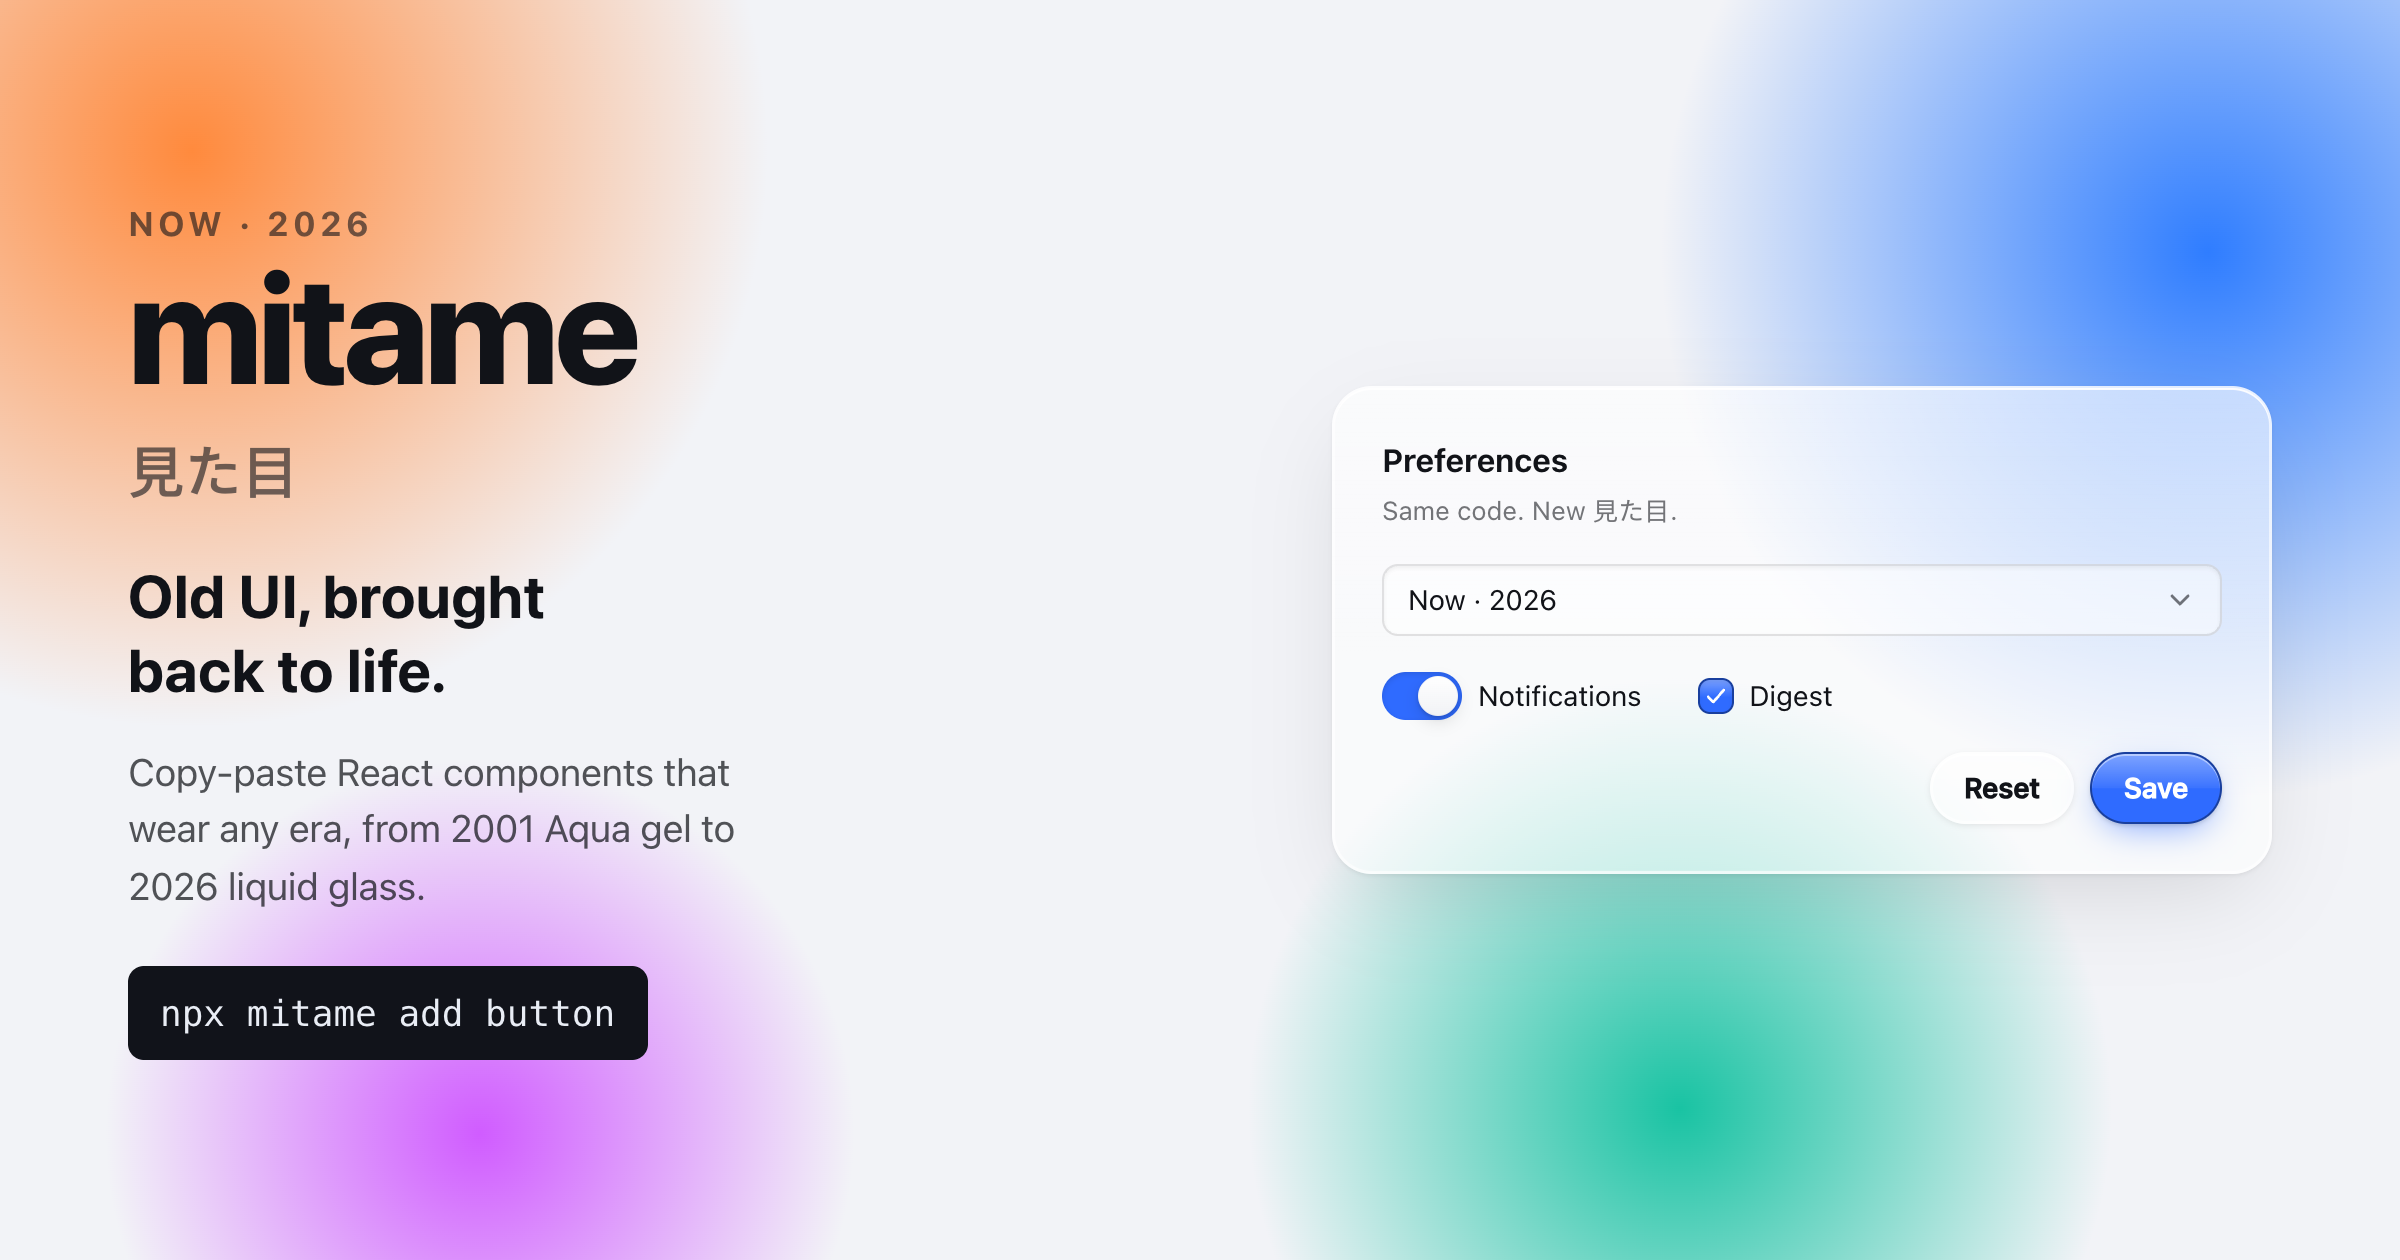
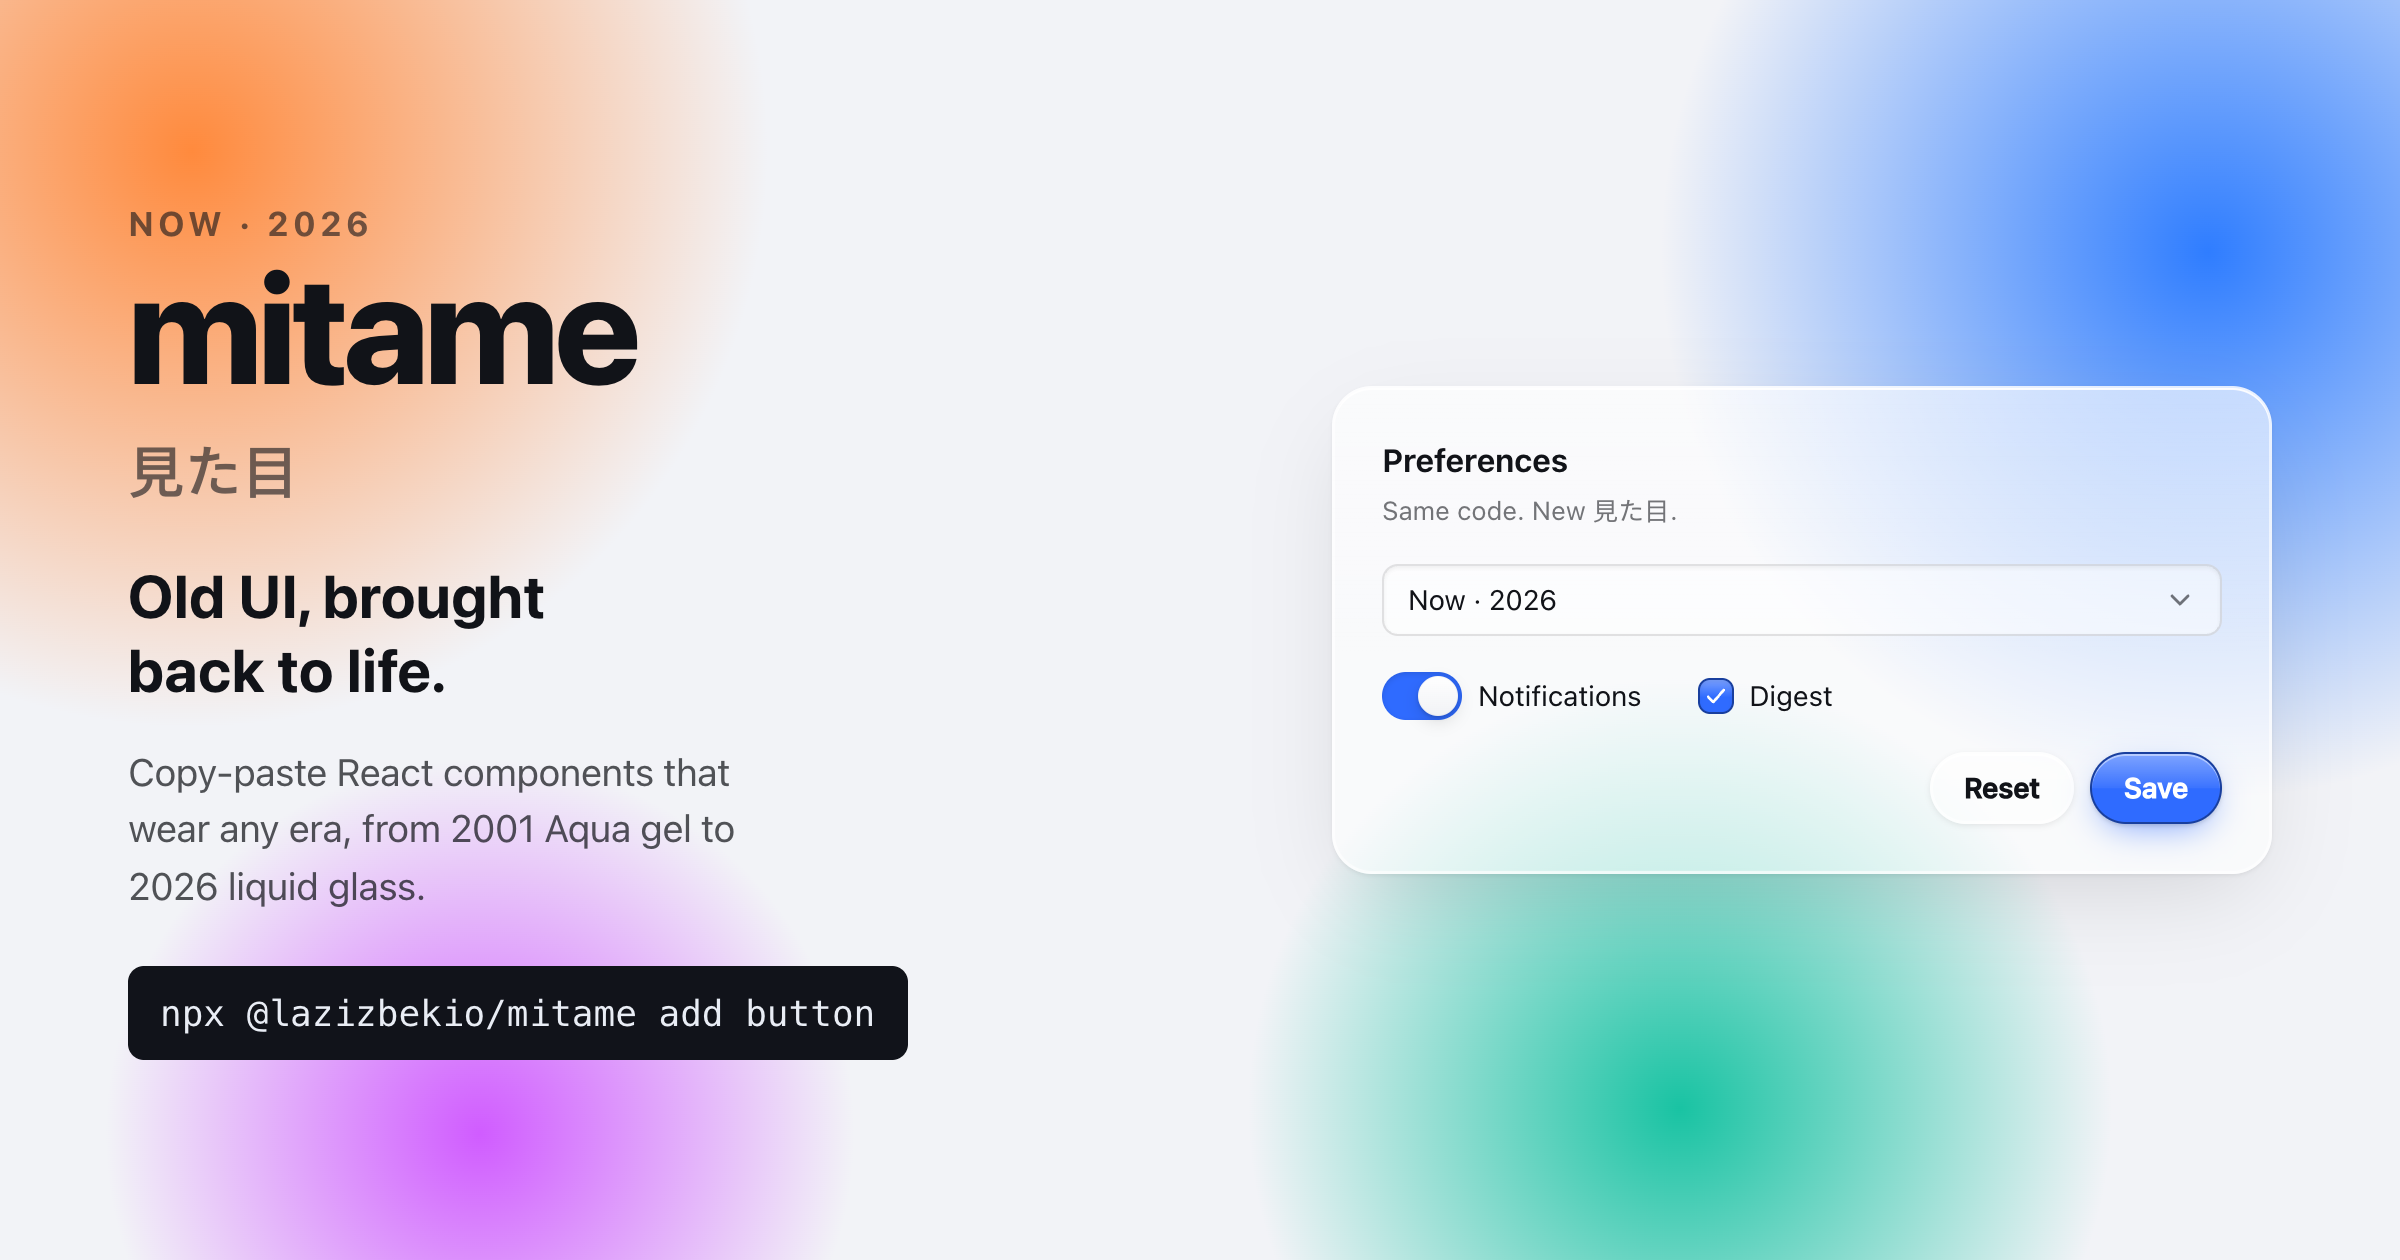
Publish as @lazizbekio/mitame
npm rejected the bare name: its typosquatting filter flagged mitame as
too similar to mitata, mime and minami. Scoped names skip that check.

- package renamed to @lazizbekio/mitame; the binary stays mitame, so
  npx mitame add button still works once it is a dependency
- every install command in the README, site, CLI help, social cards and
  launch copy updated

Changed region(s): [[0.25, 0.7429, 0.4062, 0.8667], [0.0938, 0.7738, 0.2188, 0.8357]]

diff --git a/cli/index.ts b/cli/index.ts
@@ -12,9 +12,11 @@ const root = here.endsWith(join("dist", "cli")) ? join(here, "../../registry") :
 const HELP = `mitame: copy-paste components, any look
 
 Usage
-  npx mitame init [--dir src/components/mitame] [--theme <name>]
-  npx mitame add <item...> [--overwrite]      e.g. add button select dialog
-  npx mitame list                             components, hooks, icons, themes
+  npx @lazizbekio/mitame init [--dir src/components/mitame] [--theme <name>]
+  npx @lazizbekio/mitame add <item...> [--overwrite]   e.g. add button select dialog
+  npx @lazizbekio/mitame list                          components, hooks, icons, themes
+
+Installed as a dependency? The short form works too: npx mitame add button
 
 Themes
   eras    platinum (1997), aqua (2001, default), liquid (2026)
@@ -53,7 +55,7 @@ Next:
        @import "./${r.config.dir.replace(/^src\//, "")}/themes/${THEMES[r.config.theme]}.css";
      (Tailwind users: also @import ".../themes/tailwind.css" after tailwindcss.)
   2. Set the theme: <html data-theme="${r.config.theme}">
-  3. Add components: npx mitame add button card`);
+  3. Add components: npx @lazizbekio/mitame add button card`);
     return;
   }
   if (command === "add") {

diff --git a/site/src/pages/llms.txt.ts b/site/src/pages/llms.txt.ts
@@ -10,14 +10,14 @@ export const GET: APIRoute = ({ site }) => {
 
 ## Install
 
-- \`npx mitame init\` (writes mitame.json, copies helpers and theme CSS; \`--theme liquid\` for liquid glass)
-- \`npx mitame add <name...>\` copies source into src/components/mitame (ui/, hooks/, lib/, icons/, themes/) and pulls dependencies
+- \`npx @lazizbekio/mitame init\` (writes mitame.json, copies helpers and theme CSS; \`--theme liquid\` for liquid glass)
+- \`npx @lazizbekio/mitame add <name...>\` copies source into src/components/mitame (ui/, hooks/, lib/, icons/, themes/) and pulls dependencies
 - Import once: themes/base.css and themes/y2k/aqua.css (or themes/now/liquid.css); set <html data-theme="aqua">
 - Imports look like: import { Button } from "@/components/mitame/ui/button"
 
 ## Components
 
-${components.map((c) => `- [${c.name}](${base}/docs/components/${c.slug}): ${c.description} Add with \`npx mitame add ${c.add}\`.`).join("\n")}
+${components.map((c) => `- [${c.name}](${base}/docs/components/${c.slug}): ${c.description} Add with \`npx @lazizbekio/mitame add ${c.add}\`.`).join("\n")}
 
 ## Theming
 

diff --git a/cli/commands.ts b/cli/commands.ts
@@ -13,7 +13,7 @@ export const DEFAULT_CONFIG: Config = { dir: "src/components/mitame", theme: "aq
 
 export function readConfig(cwd: string): Config {
   const file = join(cwd, CONFIG_FILE);
-  if (!existsSync(file)) throw new Error("No mitame.json here. Run `npx mitame init` first.");
+  if (!existsSync(file)) throw new Error("No mitame.json here. Run `npx @lazizbekio/mitame init` first.");
   return { ...DEFAULT_CONFIG, ...JSON.parse(readFileSync(file, "utf8")) };
 }
 
@@ -53,7 +53,7 @@ export function init(root: string, cwd: string, opts: Partial<Config> & { overwr
 
 export function add(root: string, cwd: string, names: string[], opts: { overwrite?: boolean } = {}): CopyResult {
   const config = readConfig(cwd);
-  if (!names.length) throw new Error("Tell me what to add, for example `npx mitame add button dialog`.");
+  if (!names.length) throw new Error("Tell me what to add, for example `npx @lazizbekio/mitame add button dialog`.");
   const entries = names.map((n) => resolveItem(root, n));
   return copy(root, cwd, config.dir, collectFiles(root, entries), opts.overwrite ?? false, entries);
 }

diff --git a/site/src/components/shots/ShotCard.tsx b/site/src/components/shots/ShotCard.tsx
@@ -26,7 +26,7 @@ export default function ShotCard({ theme }: { theme: string }) {
           <strong>Old UI, brought back to life.</strong>
         </p>
         <p className="sub">Copy-paste React components that wear any era, from 2001 Aqua gel to 2026 liquid glass.</p>
-        <span className="cmd">npx mitame add button</span>
+        <span className="cmd">npx @lazizbekio/mitame add button</span>
       </div>
       <div className="stage" style={{ flex: "0 0 470px" }}>
         <Card style={{ width: "470px" }}>

diff --git a/site/src/data/components.ts b/site/src/data/components.ts
@@ -9,7 +9,7 @@ export interface ComponentDoc {
   slug: string;
   name: string;
   description: string;
-  /** What `npx mitame add` takes. */
+  /** What `npx @lazizbekio/mitame add` takes. */
   add: string;
   /** Built on this platform feature. */
   native: string;

diff --git a/docs/specs/2026-09-18-mitame-v1-design.md b/docs/specs/2026-09-18-mitame-v1-design.md
@@ -5,7 +5,7 @@ Status: six themes built. Eras: `y2k/aqua` (default), `now/liquid`, `vintage/pla
 
 ## What mitame is
 
-A copy-paste React component library for the web that brings old UI back to life with cool minimalism. Every component comes in era themes, from 1984 Mac to 2026 liquid glass. People run `npx mitame add button` and the source lands in their project, so they own it and can change anything. Lighter than shadcn: zero runtime dependencies besides React.
+A copy-paste React component library for the web that brings old UI back to life with cool minimalism. Every component comes in era themes, from 1984 Mac to 2026 liquid glass. People run `npx @lazizbekio/mitame add button` and the source lands in their project, so they own it and can change anything. Lighter than shadcn: zero runtime dependencies besides React.
 
 ## Decisions
 
@@ -45,9 +45,9 @@ The old Vite library build from the skeleton is removed; the package ships `dist
 
 ## CLI
 
-- `npx mitame init`: writes `mitame.json` (`{ "dir": "src/components/mitame", "theme": "liquid" }`), copies `lib/cn.ts`, `themes/base.css`, `themes/tailwind.css` and the chosen theme.
-- `npx mitame add <item...>`: dependencies are not declared anywhere; the CLI follows each file's relative imports (and CSS `@import`s) through the registry, so `select` pulls `hooks/use-anchor-position`, `icons/chevron-down` and the rest automatically. Files keep the `ui/ lib/ hooks/ icons/ themes/` structure so relative imports just work. Existing files are skipped; `--overwrite` replaces only the items you named, never shared deps you may have edited.
-- `npx mitame list`: prints items grouped by kind.
+- `npx @lazizbekio/mitame init`: writes `mitame.json` (`{ "dir": "src/components/mitame", "theme": "liquid" }`), copies `lib/cn.ts`, `themes/base.css`, `themes/tailwind.css` and the chosen theme.
+- `npx @lazizbekio/mitame add <item...>`: dependencies are not declared anywhere; the CLI follows each file's relative imports (and CSS `@import`s) through the registry, so `select` pulls `hooks/use-anchor-position`, `icons/chevron-down` and the rest automatically. Files keep the `ui/ lib/ hooks/ icons/ themes/` structure so relative imports just work. Existing files are skipped; `--overwrite` replaces only the items you named, never shared deps you may have edited.
+- `npx @lazizbekio/mitame list`: prints items grouped by kind.
 
 The user imports the CSS once: `@import "./components/mitame/themes/base.css"; @import "./components/mitame/themes/now/liquid.css";` and sets `data-theme="liquid"` on `<html>` or any subtree.
 
@@ -105,7 +105,7 @@ Two rules the components and the site follow, both learned from real bugs:
 
 ## Blocks
 
-Whole pages (`registry/blocks/`): `sign-in`, `pricing`, `dashboard`. Each is one default-exported component built only from mitame components, with layout in a shared `blocks.css` that uses tokens only, so blocks need no utility framework. `npx mitame add dashboard` pulls the block, `blocks.css` and every component, hook and icon it imports.
+Whole pages (`registry/blocks/`): `sign-in`, `pricing`, `dashboard`. Each is one default-exported component built only from mitame components, with layout in a shared `blocks.css` that uses tokens only, so blocks need no utility framework. `npx @lazizbekio/mitame add dashboard` pulls the block, `blocks.css` and every component, hook and icon it imports.
 
 `blocks.css` repeats the `@layer theme, base, components, utilities;` statement from `base.css`, because a block imports it from TypeScript and a bundler can inject it first. Whichever stylesheet names the layers first sets their order for the page, and without this a reset like Tailwind preflight outranks the theme layer. A test enforces it for every CSS file reachable from code.
 

diff --git a/README.md b/README.md
@@ -15,8 +15,8 @@ Copy-paste React components that wear any look, from 2001 Aqua gel to 2026 liqui
 </div>
 
 ```bash
-npx mitame init
-npx mitame add button dialog select
+npx @lazizbekio/mitame init
+npx @lazizbekio/mitame add button dialog select
 ```
 
 The source lands in your project and it's yours to edit. Nothing is hidden in `node_modules`.
@@ -50,8 +50,8 @@ Two shelves: **eras** that really existed, and **styles** that are just looks.
 **1. Initialize.** Writes `mitame.json` and copies the helpers and theme CSS.
 
 ```bash
-npx mitame init                  # aqua, the default
-npx mitame init --theme liquid   # or liquid glass
+npx @lazizbekio/mitame init                  # aqua, the default
+npx @lazizbekio/mitame init --theme liquid   # or liquid glass
 ```
 
 **2. Import the styles once,** in your global CSS:
@@ -76,8 +76,8 @@ npx mitame init --theme liquid   # or liquid glass
 **4. Add components and use them:**
 
 ```bash
-npx mitame add button dialog select
-npx mitame list   # everything you can add
+npx @lazizbekio/mitame add button dialog select
+npx @lazizbekio/mitame list   # everything you can add
 ```
 
 ```tsx
@@ -99,9 +99,9 @@ Each one has a page on [mitame.dev](https://mitame.dev/docs/components) with a l
 Whole pages built from the same components, in any theme:
 
 ```bash
-npx mitame add sign-in
-npx mitame add pricing
-npx mitame add dashboard
+npx @lazizbekio/mitame add sign-in
+npx @lazizbekio/mitame add pricing
+npx @lazizbekio/mitame add dashboard
 ```
 
 They bring their own layout CSS (tokens only, no utility framework), so they look right with or without Tailwind. See them live at [mitame.dev/blocks](https://mitame.dev/blocks).

diff --git a/docs/launch/reddit.md b/docs/launch/reddit.md
@@ -21,7 +21,7 @@ Two React 19 gotchas I hit while building it, in case they save someone time:
 - React 19 will not patch attribute mismatches during hydration ("this won't be patched up"), so anything reading localStorage or the DOM during render keeps a stale value in the DOM. Render the server value, sync in an effect.
 - If a button has `popovertarget` in server HTML, clicking it before hydration opens the popover unpositioned, because your positioning hook has not run. Withhold the attribute until mounted.
 
-Components are copied into your project with `npx mitame add dialog`, so you own and can edit the source. MIT, React 19.
+Components are copied into your project with `npx @lazizbekio/mitame add dialog`, so you own and can edit the source. MIT, React 19.
 
 mitame.dev
 

diff --git a/docs/launch/README.md b/docs/launch/README.md
@@ -38,7 +38,7 @@ X also accepts the GIF directly and converts it to video on upload, so the mp4 i
 
 1. `mitame.dev` bought and pointing at the Vercel project.
 2. `SITE_URL=https://mitame.dev` set in Vercel, then redeploy, so previews and the sitemap use real URLs.
-3. `npm publish` done, then check `npx mitame@latest init` in an empty folder.
+3. `npm publish` done, then check `npx @lazizbekio/mitame@latest init` in an empty folder.
 4. Open https://mitame.dev in a private window and click through: theme switch, a component page, a block, dark mode, phone width.
 5. Paste the URL into a Slack or Discord message to confirm the preview image shows.
 6. Post the same day to Product Hunt (12:01am PT) and X, then Show HN and r/reactjs a few hours apart.

diff --git a/docs/launch/product-hunt.md b/docs/launch/product-hunt.md
@@ -51,7 +51,7 @@ You switch with one attribute, `data-theme`, and your markup never changes.
 
 Two things I care about in it:
 
-**You own the code.** `npx mitame add dialog` copies the source into your project. No black box in node_modules, edit anything.
+**You own the code.** `npx @lazizbekio/mitame add dialog` copies the source into your project. No black box in node_modules, edit anything.
 
 **Nothing to install but React.** Dialogs use the native `<dialog>`, menus and popovers use the browser's Popover API, inputs are real form inputs. No Radix, no Floating UI, no tailwind-merge. Keyboard support, focus handling and the top layer come from the browser, which also means less of my code to get wrong.
 

diff --git a/docs/launch/twitter.md b/docs/launch/twitter.md
@@ -26,7 +26,7 @@ that is the whole idea: your markup stays the same, only the 見た目 changes.
 
 it is copy-paste, like shadcn:
 
-npx mitame add dialog
+npx @lazizbekio/mitame add dialog
 
 the source lands in your project. edit anything. no black box in node_modules.
 
